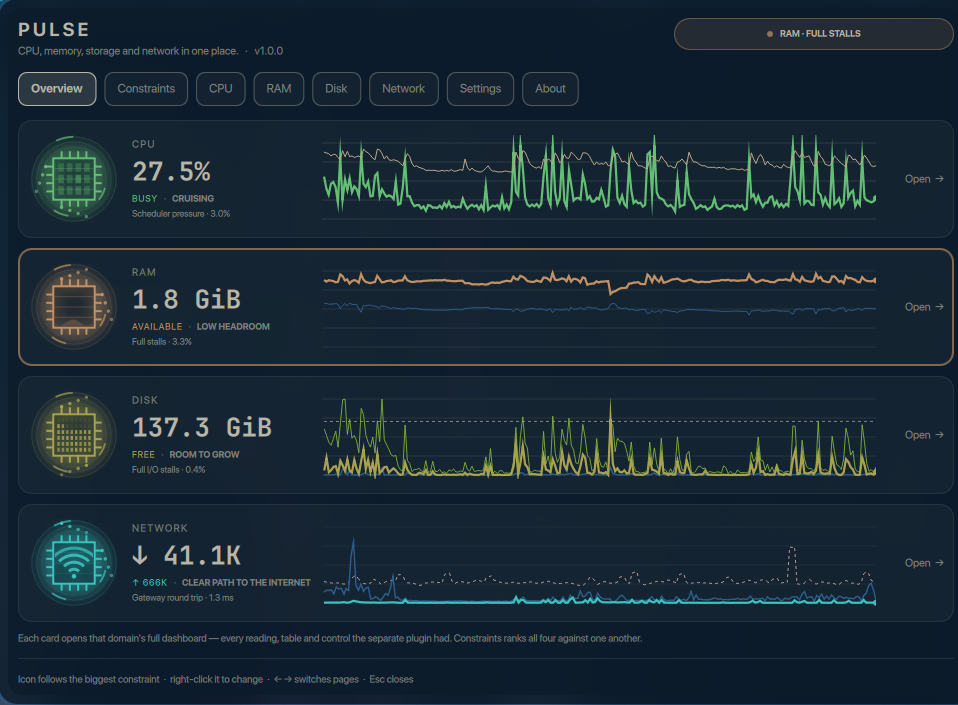
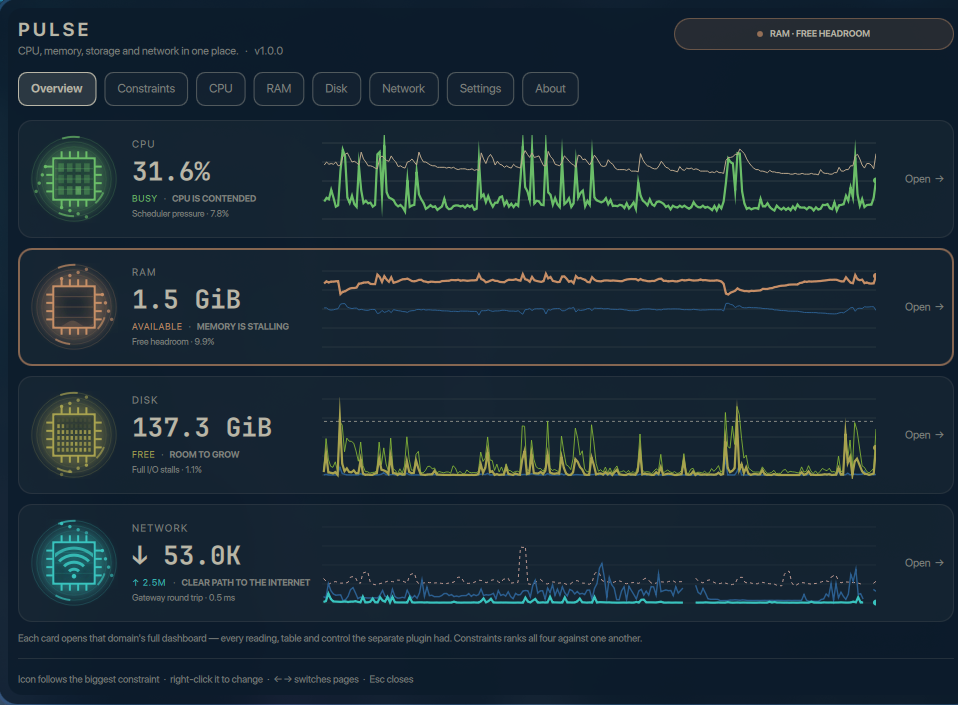
fix: seven defects from an independent review of the severity model and panel
A second pass over Constraints.js and Panel.qml against live snapshots on this
machine found seven real defects. All are fixed and each was verified against
the reading that triggers it.

1. A DEAD RECORDER COULD NEVER TAKE THE ICON. `ramp(full.avg60, 0, 5)` meant a
   5% full-memory-stall average scored exactly 1.00 — the same value `offline()`
   returns — and `worst` breaks ties by domain order, so RAM (index 1) held the
   icon while a stopped net-pulse.service (index 3) sat at the same score. The
   offline override in the hysteresis never fired, because the offline domain
   never became the winner. Measured here: full.avg60 ran 3.6–5.8% with nothing
   wrong, pinning RAM at 1.00 in 8 of 20 samples. Live readings now cap at 0.97
   (CEILING) so `offline` is the unique top of the scale, and the stall ramp
   widened to (0, 20) because 5% is normal on this class of machine, not
   maximal. Verified: stopping disk-pulse.service moves the icon to
   "DISK · OFFLINE" within 20 seconds.

2. `pinBar` PERSISTED ANY STRING. `pin bogus` wrote barSource: "bogus" into
   shell.json; sectionFor returned null so the icon silently behaved as auto,
   but barAuto was false, so the tooltip and footer both claimed "pinned to
   bogus" and no control could clear it. pinBar now rejects anything that is
   not auto or a real domain, and barSource ignores a stored value that is
   neither, so an already-poisoned config recovers on its own. Verified.
[…]

diff --git a/sections/Constraints.js b/sections/Constraints.js
@@ -16,6 +16,11 @@
 var LOW = 0.34        // worth knowing
 var MEDIUM = 0.62     // worth acting on soon
 var HIGH = 0.85       // acting on now
+// A live reading can reach 0.97 but never 1. Only `offline` scores 1, so a
+// stopped recorder always outranks a saturated one. Without this, a RAM stall
+// average that pinned its ramp tied at 1.00 with a dead collector, and the
+// tie-break — first domain wins — meant the dead one could never take the icon.
+var CEILING = 0.97
 
 function clamp01(n) {
     if (typeof n !== 'number' || !isFinite(n)) return 0
@@ -49,13 +54,33 @@ function band(severity) {
 }
 
 function entry(key, label, value, detail, severity) {
+    var s = Math.min(clamp01(severity), CEILING)
     return {key: key, label: label, value: value, detail: detail,
-            severity: clamp01(severity), band: band(clamp01(severity))}
+            severity: s, band: band(s)}
 }
 
 function offline(domain, unit) {
-    return [entry('offline', 'Recorder offline', 'no telemetry',
-                  'Nothing has been recorded for this domain recently. Check ' + unit + '.', 1)]
+    // Built directly rather than through entry(), because this is the one
+    // reading allowed to score a full 1.
+    return [{key: 'offline', label: 'Recorder offline', value: 'no telemetry',
+             detail: 'Nothing has been recorded for this domain recently. Check ' + unit + '.',
+             severity: 1, band: 'critical'}]
+}
+
+// The mean of a ping series is dominated by a single stall. 23 samples between
+// 0.4 and 2.3 ms plus one 565 ms outlier averages to 24 ms, which reads as a
+// problem on a link that is fine. The median describes the typical packet.
+function median(values, fallback) {
+    if (!values || !values.length) return fallback
+    var sorted = [], i
+    for (i = 0; i < values.length; i++) {
+        var n = Number(values[i])
+        if (isFinite(n)) sorted.push(n)
+    }
+    if (!sorted.length) return fallback
+    sorted.sort(function (a, b) { return a - b })
+    var mid = Math.floor(sorted.length / 2)
+    return sorted.length % 2 ? sorted[mid] : (sorted[mid - 1] + sorted[mid]) / 2
 }
 
 function rank(list) {
@@ -88,7 +113,7 @@ function cpu(c, stale) {
 
     out.push(entry('thermal', 'Package temperature', deg(c.temp),
         'Sustained heat is what makes a laptop clock down. Above 90°C the processor is trading speed for survival.',
-        ramp(c.temp, 70, 95)))
+        ramp(c.temp, 80, 95)))
 
     out.push(entry('pressure', 'Scheduler pressure', pct(some.avg60),
         'The share of the last minute that something spent waiting for a core rather than running. This is contention you can feel.',
@@ -145,7 +170,7 @@ function ram(m, stale) {
 
     out.push(entry('stall', 'Full stalls', pct(full.avg60),
         'Time where every task was blocked on memory at once. Anything sustained here is the machine grinding.',
-        ramp(full.avg60, 0, 5)))
+        ramp(full.avg60, 0, 20)))
 
     // zram reports {original, physical}: the logical bytes stored and the RAM
     // they actually occupy after compression. There is no total/used pair.
@@ -171,6 +196,26 @@ function disk(d, mountpoint, primary, drive, stale) {
         out.push(entry('space', 'Free space on ' + (primary.mount || mountpoint), pct(primary.freePct),
             size(primary.free) + ' left of ' + size(primary.total) + '. Under a fifth free, allocation slows and a filesystem like btrfs starts working harder to find room.',
             ramp(primary.freePct, 20, 0)))
+    }
+
+    // The bar follows one filesystem, but a full /boot stops an update whether
+    // or not you happen to be watching it. Score the tightest of the others
+    // too. Remote mounts are skipped: a full rclone target is not this
+    // machine's constraint and its free space can be nonsense.
+    var tightest = null
+    var mounts = d.filesystems || []
+    for (var f = 0; f < mounts.length; f++) {
+        var fs = mounts[f]
+        if (!fs || fs.remote) continue
+        if (primary && fs.mount === primary.mount) continue
+        if (typeof fs.freePct !== 'number') continue
+        if (!tightest || fs.freePct < tightest.freePct) tightest = fs
+    }
+    if (tightest) {
+        out.push(entry('othermount', 'Free space on ' + tightest.mount, pct(tightest.freePct),
+            size(tightest.free) + ' left of ' + size(tightest.total) + ' on ' + (tightest.fstype || 'this filesystem')
+            + '. The bar follows ' + (primary ? primary.mount : mountpoint) + ', so this one fills without ever changing the chip.',
+            ramp(tightest.freePct, 20, 0)))
     }
 
     var rates = drive && drive.rates ? drive.rates : {}
@@ -220,9 +265,10 @@ function net(n, stale) {
             'There is a route, but the usual checks are not coming back clean. A captive portal or a filtered DNS will look like this.', 0.8))
     }
 
-    out.push(entry('latency', 'Internet round trip', ms(ping.internet),
-        'How long a packet takes to reach ' + (ping.probe || 'the probe target') + ' and return. Everything interactive is built on top of this number.',
-        ramp(ping.internet, 40, 200)))
+    var internetTypical = median(ping.internetSamples, ping.internet)
+    out.push(entry('latency', 'Internet round trip', ms(internetTypical),
+        'How long the median packet takes to reach ' + (ping.probe || 'the probe target') + ' and return. Everything interactive is built on top of this number.',
+        ramp(internetTypical, 40, 200)))
 
     out.push(entry('loss', 'Packet loss', pct(ping.loss),
         'Lost packets are re-sent, so loss costs far more than its percentage suggests.',
@@ -234,9 +280,10 @@ function net(n, stale) {
             ramp(wifi.quality, 60, 0)))
     }
 
-    out.push(entry('gateway', 'Gateway round trip', ms(ping.gateway),
-        'The first hop. Latency here is your own network, not the internet, so it separates a slow link from a slow world.',
-        ramp(ping.gateway, 5, 60)))
+    var gatewayTypical = median(ping.gatewaySamples, ping.gateway)
+    out.push(entry('gateway', 'Gateway round trip', ms(gatewayTypical),
+        'The first hop, as the median packet sees it. Latency here is your own network, not the internet, so it separates a slow link from a slow world.',
+        ramp(gatewayTypical, 5, 60)))
 
     return rank(out)
 }

diff --git a/sections/ConstraintsPage.qml b/sections/ConstraintsPage.qml
@@ -27,11 +27,27 @@ Item {
 
     // Domains worst first. The ranking is the finding, so the page is ordered
     // by it rather than by a fixed CPU/RAM/Disk/Net order that would bury it.
-    readonly property var ranked: {
+    // Recomputed only while the page is on screen, and only when a severity
+    // actually moves. A sort inside a Repeater's model binding returns a new
+    // array identity on every evaluation, which tears down all four cards —
+    // and it was doing that every couple of seconds behind a page nobody was
+    // looking at.
+    property var ranked: []
+    function rerank() {
+        if (!root.visible) return
         var list = []
         for (var i = 0; i < host.domains.length; i++) if (host.domains[i]) list.push(host.domains[i])
-        return list.sort(function (a, b) { return b.concern - a.concern })
+        list.sort(function (a, b) { return b.concern - a.concern })
+        if (list.length === root.ranked.length) {
+            var same = true
+            for (var j = 0; j < list.length; j++) if (list[j] !== root.ranked[j]) { same = false; break }
+            if (same) return
+        }
+        root.ranked = list
     }
+    onVisibleChanged: root.rerank()
+    Component.onCompleted: root.rerank()
+    Timer { interval: 2000; running: root.visible; repeat: true; onTriggered: root.rerank() }
     // One colour scale for severity, independent of any domain's own tint, so
     // a red bar means the same thing in every row on the page.
     function severityColor(severity) {
@@ -163,8 +179,10 @@ Item {
                     Repeater {
                         // The top few only. A domain's fifth-worst reading is
                         // not a finding, and the page has to fit on one screen
-                        // to be read at a glance at all.
-                        model: block.modelData.constraints.slice(0, 3)
+                        // to be read at a glance at all. The slice is cached on
+                        // the section, so the delegates are not rebuilt on
+                        // every binding evaluation.
+                        model: block.modelData.topConstraints
                         Row {
                             required property var modelData
                             width: inner.width

diff --git a/Panel.qml b/Panel.qml
@@ -32,7 +32,12 @@ Panel {
     // are the merged pages.
     property string active: 'overview'
     property bool chooseMode: false
+    // A status line is a reply to something you just did, so it expires. Left
+    // standing it becomes furniture, and the next person to open the panel
+    // reads a stale answer to a question they never asked.
     property string actionStatus: ''
+    onActionStatusChanged: if (actionStatus !== '') statusExpiry.restart()
+    Timer { id: statusExpiry; interval: 8000; onTriggered: root.actionStatus = '' }
     readonly property var pages: [
         {key: 'overview',    label: 'Overview'},
         {key: 'constraints', label: 'Constraints'},
@@ -78,7 +83,10 @@ Panel {
     // the merge: the icon becomes whichever domain is currently the biggest
     // constraint, and says so. Anything else is a pin the user chose from the
     // right-click chooser, and it stays put.
-    readonly property string barSource: String(root.setting('barSource', 'auto'))
+    readonly property string barSource: {
+        var stored = String(root.setting('barSource', 'auto'))
+        return stored === 'auto' || root.domainKeys.indexOf(stored) >= 0 ? stored : 'auto'
+    }
     readonly property bool barAuto: root.barSource === 'auto'
     // Auto follows `worst`, but not instantly. Two domains sitting a hair
     // apart would otherwise trade the icon back and forth every few seconds,
@@ -111,6 +119,13 @@ Panel {
         return root.barDomain.sectionTitle.toUpperCase() + ' · ' + root.barDomain.tag
     }
     function pinBar(key, mode) {
+        // Anything that is not auto or a real domain would persist into
+        // shell.json and leave the panel saying "pinned to bogus" with the icon
+        // silently behaving as auto and no control able to clear it.
+        if (key !== 'auto' && root.domainKeys.indexOf(key) < 0) {
+            root.actionStatus = 'No such readout: ' + key
+            return
+        }
         root.setSetting('barSource', key)
         if (key !== 'auto') {
             var s = root.sectionFor(key)

diff --git a/sections/DiskSection.qml b/sections/DiskSection.qml
@@ -265,6 +265,10 @@ Item {
     readonly property real concern: root.topConstraint ? root.topConstraint.severity : 0
     readonly property string constraintLabel: root.topConstraint ? root.topConstraint.label : 'No constraint'
     readonly property string constraintValue: root.topConstraint ? root.topConstraint.value : '—'
+    // Sliced once per data change. Slicing inside a Repeater's model binding
+    // hands it a new array identity on every evaluation, which destroys and
+    // rebuilds every delegate each time.
+    readonly property var topConstraints: root.constraints.slice(0, 3)
     readonly property string headline: root.stale ? '—' : Model.readout(root.disk, root.mode, root.mountpoint)
     readonly property string tag: Model.modeTag(root.disk, root.mode)
     property Component barChip: Component { DiskChip {compact:true;body:root.themeBg;glint:root.barForeground;free:root.chipFree;activity:root.activity;reading:root.reading;writing:root.writing;tint:root.tint;animate:!root.stale && root.setting('animated',true)} }

diff --git a/sections/CpuSection.qml b/sections/CpuSection.qml
@@ -147,6 +147,10 @@ Item {
     readonly property real concern: root.topConstraint ? root.topConstraint.severity : 0
     readonly property string constraintLabel: root.topConstraint ? root.topConstraint.label : 'No constraint'
     readonly property string constraintValue: root.topConstraint ? root.topConstraint.value : '—'
+    // Sliced once per data change. Slicing inside a Repeater's model binding
+    // hands it a new array identity on every evaluation, which destroys and
+    // rebuilds every delegate each time.
+    readonly property var topConstraints: root.constraints.slice(0, 3)
     readonly property string headline: root.stale ? '—' : Model.readout(root.cpu, root.mode)
     readonly property string tag: Model.modeTag(root.mode)
     property Component barChip: Component { CpuChip {compact:true;busy:root.cpu.busyPct || 0;cores:root.coreLoads;tint:root.tint;stops:root.rampStops;dieFill:Color.background;glint:root.bar?root.bar.foreground:root.ink;animate:!root.stale && root.setting('animated',true)} }

diff --git a/sections/NetSection.qml b/sections/NetSection.qml
@@ -324,6 +324,10 @@ Item {
     readonly property real concern: root.topConstraint ? root.topConstraint.severity : 0
     readonly property string constraintLabel: root.topConstraint ? root.topConstraint.label : 'No constraint'
     readonly property string constraintValue: root.topConstraint ? root.topConstraint.value : '—'
+    // Sliced once per data change. Slicing inside a Repeater's model binding
+    // hands it a new array identity on every evaluation, which destroys and
+    // rebuilds every delegate each time.
+    readonly property var topConstraints: root.constraints.slice(0, 3)
     readonly property string headline: root.stale ? '—' : Model.readout(root.net, root.mode)
     readonly property string tag: Model.modeTag(root.net, root.mode)
     property Component barChip: Component { NetChip {compact:true;body:Color.bar.background;kind:root.chipKind;level:root.health/100;activity:root.activity;tint:root.tint;stops:root.rampStops;animate:!root.stale && root.setting('animated',true)} }

diff --git a/sections/RamSection.qml b/sections/RamSection.qml
@@ -186,6 +186,10 @@ Item {
     readonly property real concern: root.topConstraint ? root.topConstraint.severity : 0
     readonly property string constraintLabel: root.topConstraint ? root.topConstraint.label : 'No constraint'
     readonly property string constraintValue: root.topConstraint ? root.topConstraint.value : '—'
+    // Sliced once per data change. Slicing inside a Repeater's model binding
+    // hands it a new array identity on every evaluation, which destroys and
+    // rebuilds every delegate each time.
+    readonly property var topConstraints: root.constraints.slice(0, 3)
     readonly property string headline: root.stale ? '—' : Model.readout(root.mem, root.mode)
     readonly property string tag: root.mode===1||root.mode===2 ? 'USED' : 'AVAILABLE'
     property Component barChip: Component { MemoryChip {compact:true;body:root.themeBg;available:root.mem.availablePct || 0;tint:root.tint;animate:!root.stale && root.setting('animated',true)} }

diff --git a/sections/OverviewPage.qml b/sections/OverviewPage.qml
@@ -136,12 +136,13 @@ Item {
 
                 MouseArea {
                     anchors.fill: parent
-                    hoverEnabled: true
+                    // Deliberately NOT hoverEnabled. A hover-enabled MouseArea
+                    // is the topmost item accepting hover, so it would swallow
+                    // every move event before the graph's own area could draw
+                    // its crosshair — propagateComposedEvents forwards clicks,
+                    // not hovers. cursorShape still works without it.
                     cursorShape: Qt.PointingHandCursor
-                    // The graph underneath wants the hover for its crosshair,
-                    // so this only claims the click.
                     acceptedButtons: Qt.LeftButton
-                    propagateComposedEvents: true
                     onClicked: function (mouse) { host.showPage(cardRect.key) }
                 }
             }

diff --git a/README.md b/README.md
@@ -150,9 +150,11 @@ out in two columns rather than one long list.
 | Overview | 711 px |
 | Chooser | 817 px |
 | Constraints | 925 px |
+| RAM | 933 px |
 | Network | 938 px |
 | CPU | 979 px |
 | Settings | 1022 px |
+| Disk | 1043 px |
 
 ---
 
